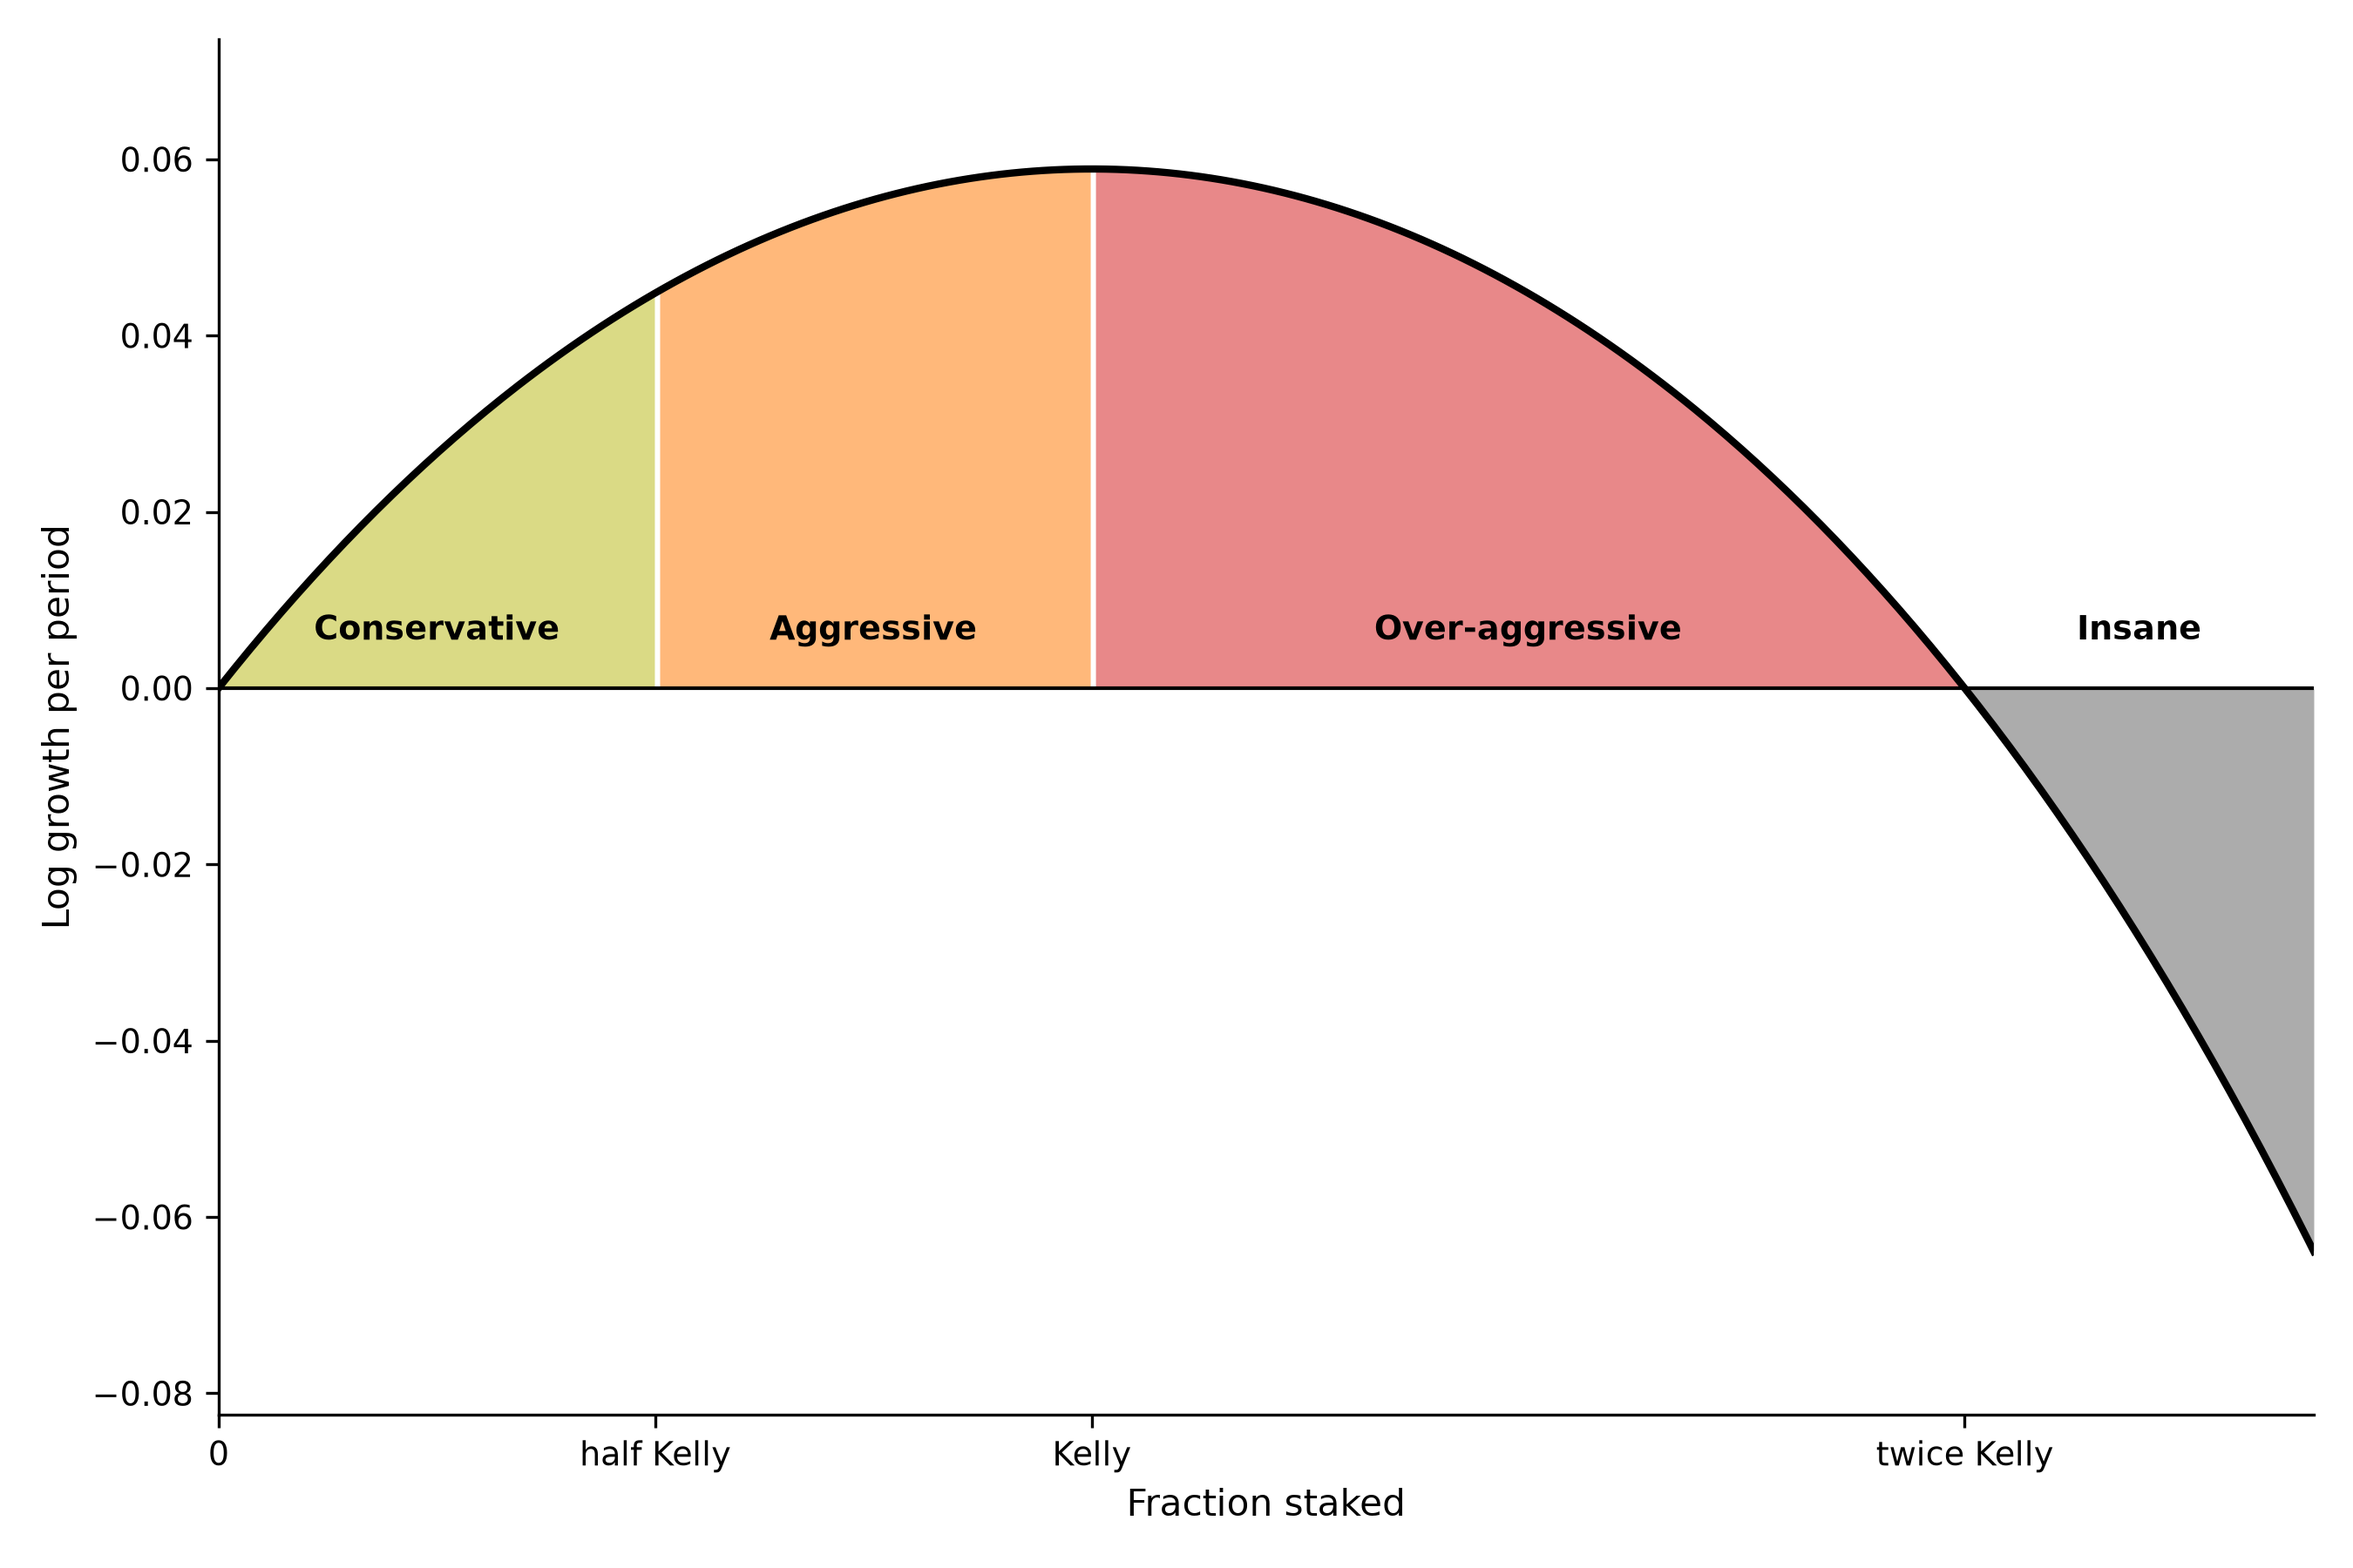
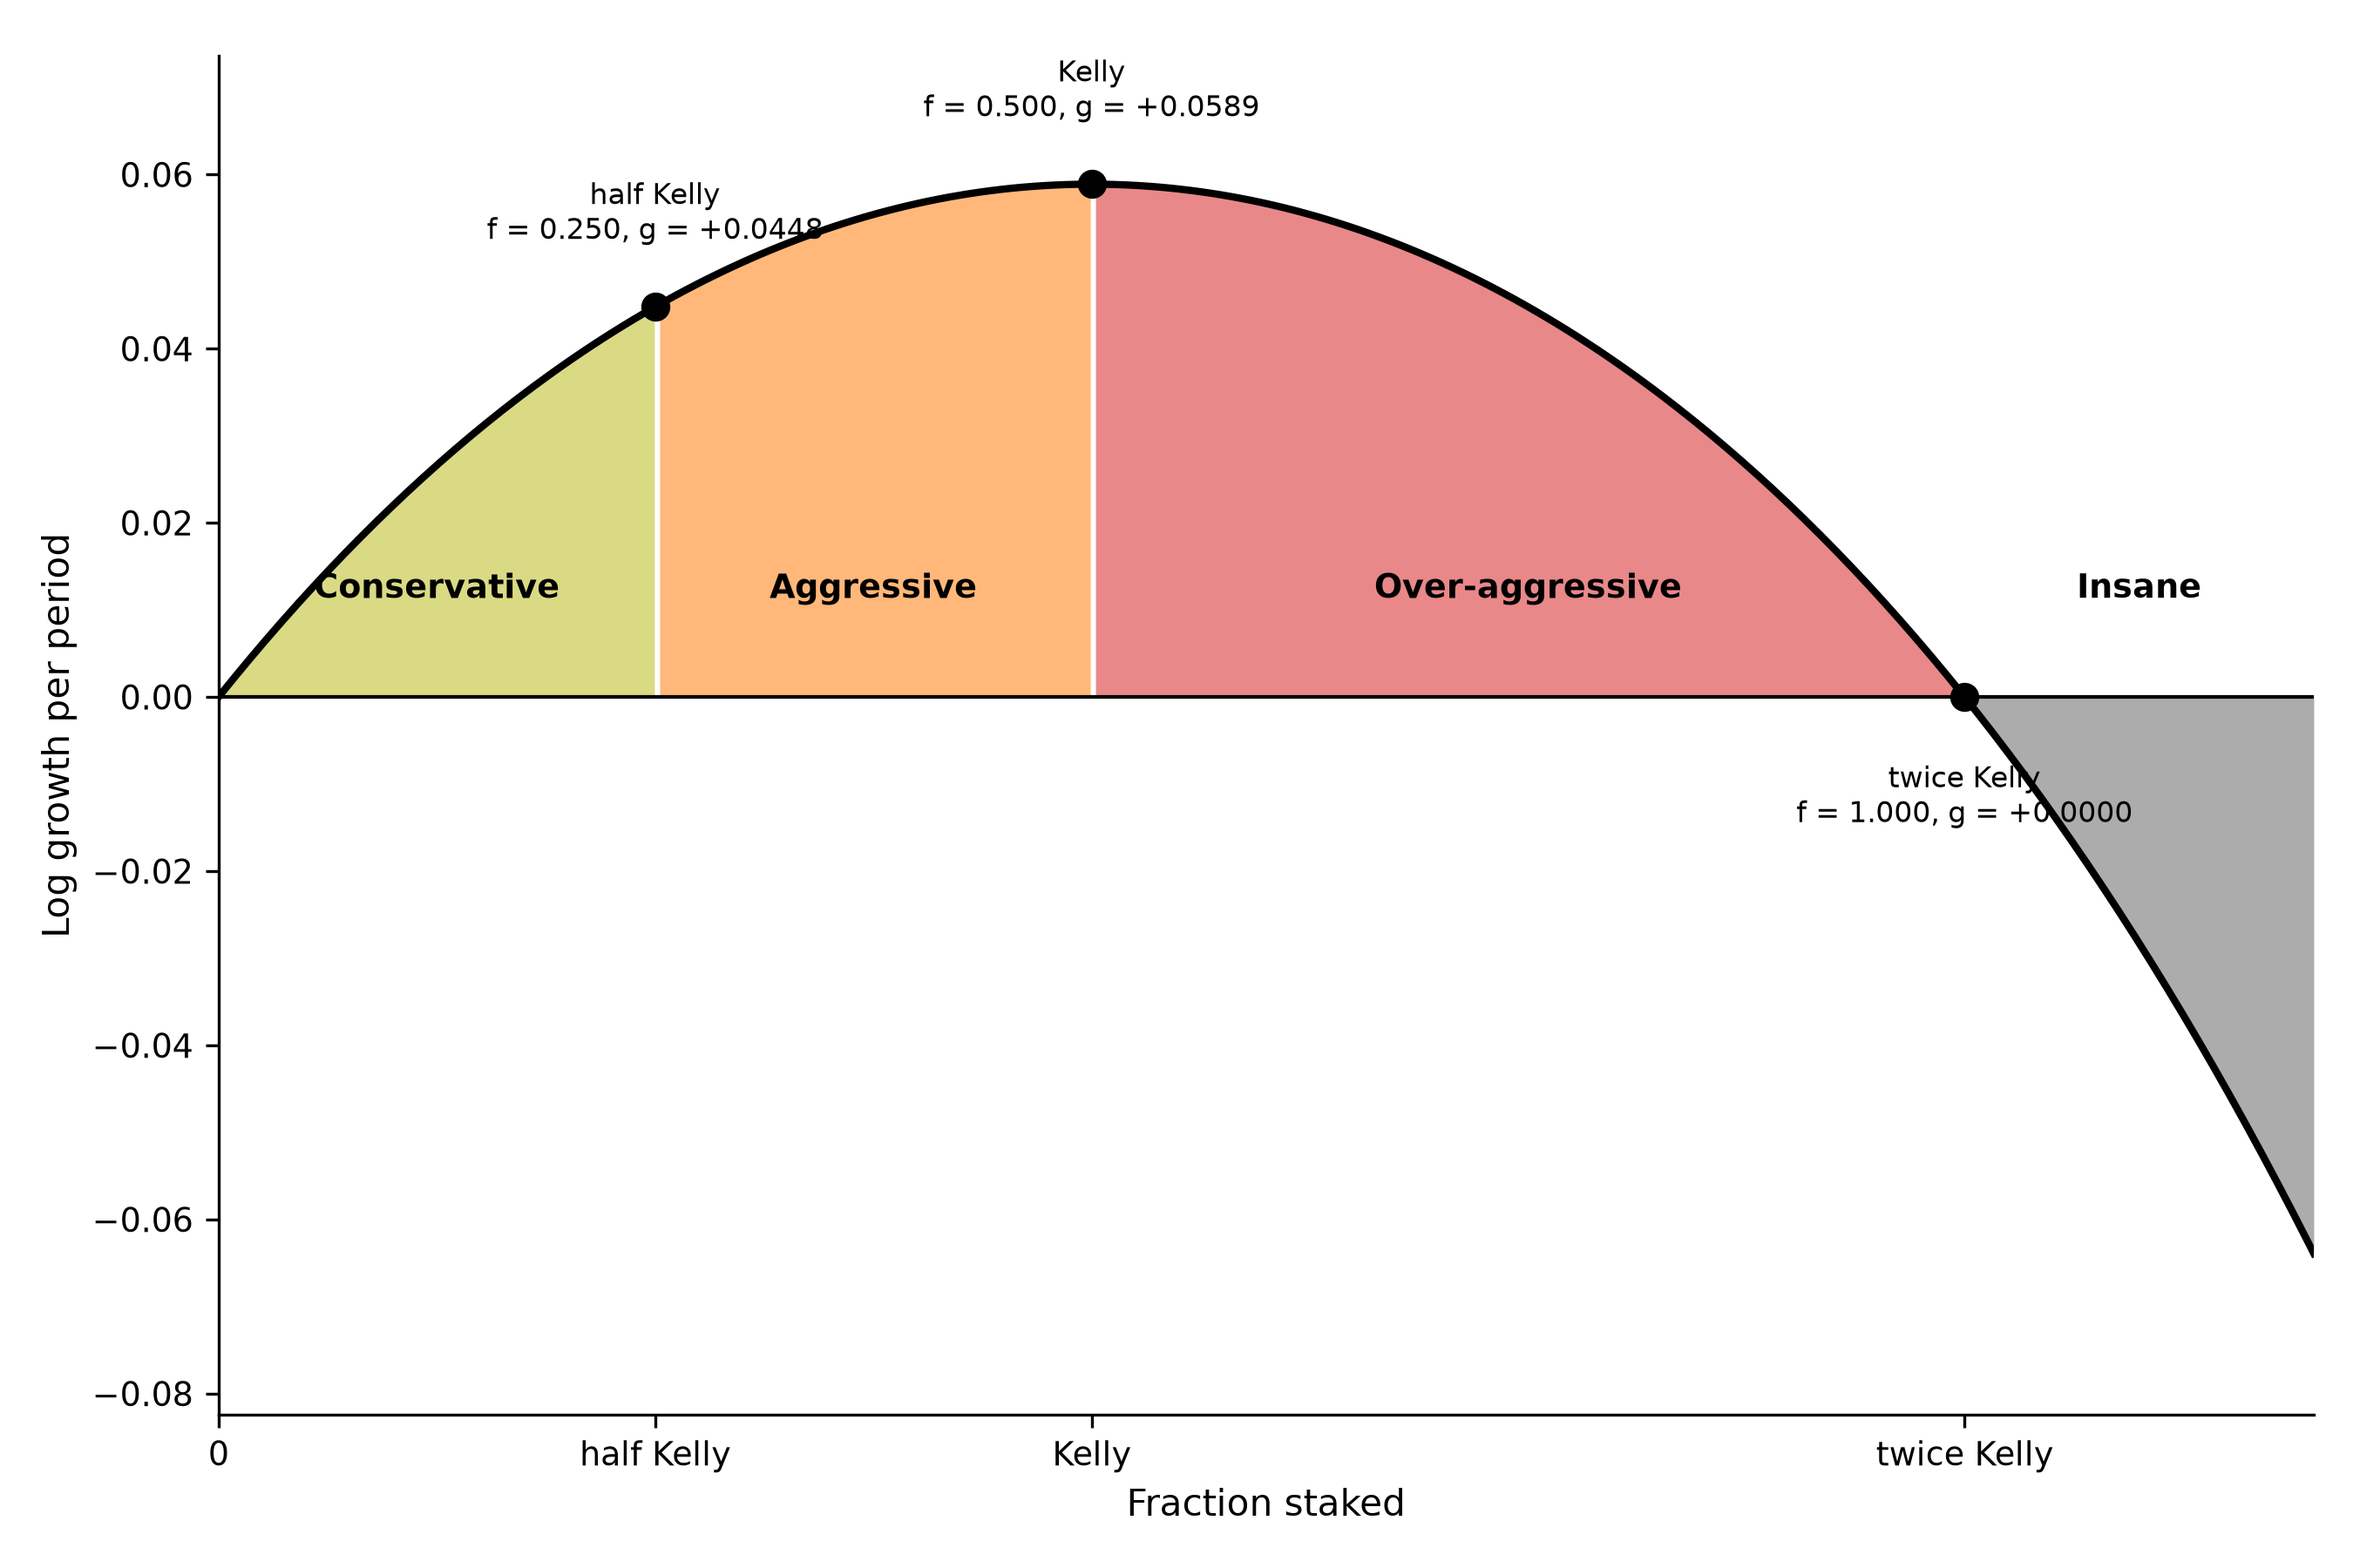
Mark the three Kelly points on the zone chart and fold section 5 into 3.1
The zone chart named the boundaries on the x axis but gave no values. Each of
half Kelly, Kelly and twice Kelly is now a marked point on the curve carrying
its fraction and its growth rate: 0.250 at +0.0448, 0.500 at +0.0589, and 1.000
at +0.0000. The twice Kelly label sits below the axis so it no longer collides
with the Insane zone label.

Section 4.1 explains the two ends the marks reveal. Twice Kelly is the real
ceiling, because the optimum is only where growth stops rising while twice the
optimum is where it changes sign; here that is exactly 1.000, so staking
everything is the boundary. Half Kelly is the other end: it keeps 0.7608 of the
maximum, giving up under a quarter of the growth for half the stake.

Section 5 held the verification of Table 1 but sat four chapters away from it.
Its content moves directly under that table where it belongs, and the chapter is
gone, leaving four chapters.

Claude-Session: https://claude.ai/code/session_012QYDksmpgTZRbhon3qb1cF

diff --git a/Stock/Kelly-Criterion/src/kelly.py b/Stock/Kelly-Criterion/src/kelly.py
@@ -13,7 +13,7 @@ Changelog:
 """
 
 __author__ = 'yRocket'
-__version__ = "0.2.0.2026.8.30"
+__version__ = "0.2.1.2026.8.30"
 
 import argparse
 import enum
@@ -244,10 +244,24 @@ def plot_growth_zones(analyzer: KellyAnalyzer, optimum: float, output_path: path
         inside = (fractions >= left) & (fractions <= right)
         axis.fill_between(fractions[inside], 0.0, growth[inside],
                           color=ZONE_COLOURS[index], alpha=0.55, linewidth=0.0)
-        axis.text(0.5 * (left + right), 0.5 * np.nanmax(growth) * 0.22, ZONE_LABELS[index],
+        axis.text(0.5 * (left + right), 0.5 * np.nanmax(growth) * 0.42, ZONE_LABELS[index],
                   ha='center', va='center', fontsize=font_size, fontweight='bold')
     axis.plot(fractions, growth, color='black', linewidth=2.0)
     axis.axhline(0.0, color='black', linewidth=1.0)
+
+    # Mark the three boundaries on the curve itself, so the reader can read a value off each.
+    # The last mark sits on the zero line, so its label goes below to clear the zone labels.
+    for multiple, label, above in ((0.5, 'half Kelly', True), (1.0, 'Kelly', True),
+                                   (2.0, 'twice Kelly', False)):
+        position = multiple * optimum
+        if position > limit:
+            continue
+        height = float(analyzer.log_growth(position))
+        axis.plot([position], [height], marker='o', markersize=7, color='black', zorder=3)
+        axis.annotate(f"{label}\nf = {position:.3f}, g = {height:+.4f}",
+                      xy=(position, height), xytext=(0.0, 16.0 if above else -18.0),
+                      textcoords='offset points', ha='center',
+                      va='bottom' if above else 'top', fontsize=font_size - 1)
     axis.set_xticks(edges[:-1])
     axis.set_xticklabels(['0', 'half Kelly', 'Kelly', 'twice Kelly'])
     axis.set_xlim(0.0, limit)

diff --git a/Stock/Kelly-Criterion/Kelly_Criterion.md b/Stock/Kelly-Criterion/Kelly_Criterion.md
@@ -1,6 +1,6 @@
 # Kelly Criterion
 
-Rev. 5 | Created: 2026-08-30 | Updated: 2026-08-30 15:48 UTC
+Rev. 6 | Created: 2026-08-30 | Updated: 2026-08-30 15:50 UTC
 
 > **Goal** — 베팅 비중 하나가 장기 성장률을 얼마나 좌우하는지 수치로 확정한다. "적당히 걸어라" 가 아니라 "최적 비중이 얼마이고, 거기서 벗어나면 성장률과 손실 확률이 각각 얼마나 나빠지는가" 를 판단 기준으로 쓸 수 있게 한다.
 >
@@ -73,6 +73,14 @@ Table 1. Growth rate and simulated outcome by fraction
 
 0.375 와 0.625 는 해석해만 계산했고 시뮬레이션 대상이 아니므로 뒤 네 열을 `—` 로 둔다.
 
+이 표의 수치는 서로 독립인 세 방법으로 확인했다.
+
+- Closed form — 2.3 절의 식에 값을 넣어 얻은 $f^{*} = 0.500000$.
+- Numeric search — 같은 성장 함수를 수치 최적화로 최대화해 얻은 $f^{*} = 0.500000$. 닫힌 해와의 차이는 3.33e-16 이다.
+- Monte Carlo — 게임을 실제로 반복해 얻은 기간당 성장률 표본. 그 중앙값이 해석해와 소수점 여섯 자리까지 일치한다.
+
+세 번째가 가장 중요하다. 기대 log 성장률은 정의상 log 자산의 기댓값이지 흔한 결과가 아닌데, 중앙값과 일치한다는 것은 2.2 절의 해석이 맞다는 뜻이다. 기간이 길어질수록 log 자산이 정규분포에 가까워져 평균과 중앙값이 같아지기 때문이며, 4.3 절이 지적한 대로 기간이 짧으면 이 일치는 깨진다.
+
 <img src="Kelly_Criterion_fig/growth_curve.png" width="900" style="max-width: 100%;" alt="Fig 1">
 Fig 1. Expected log growth against bet size, with the simulated medians overlaid
 
@@ -114,7 +122,11 @@ Fig 4. Growth curve split into four zones at half, one and two times the optimum
 - $f^{*}$ 와 $2 f^{*}$ 사이 — 성장률이 떨어지는데 변동성은 계속 커지는 구간. 더 걸어서 잃는다.
 - $2 f^{*}$ 위 — 성장률이 음수인 구간. 이길 확률이 있는 베팅으로 장기적으로 확실히 잃는다.
 
-경계 두 개가 중요하다. $f^{*}$ 는 성장률이 꺾이는 지점이고, $2 f^{*}$ 는 성장률이 0 으로 돌아오는 지점이다. 이 게임에서 $f^{*} = 0.500$ 이므로 $2 f^{*}$ 는 정확히 1.000 이고, Table 1 의 비중 1.000 행이 성장률 +0.000000 인 것이 그 값이다. 전 재산을 거는 것이 곧 "성장률 0" 경계라는 뜻이다.
+Fig 4 에 세 경계를 점으로 찍고 값을 함께 적었다. half Kelly 는 f = 0.250 에서 g = +0.0448, Kelly 는 f = 0.500 에서 g = +0.0589, twice Kelly 는 f = 1.000 에서 g = +0.0000 이다.
+
+이 중 twice Kelly 가 실질적인 상한이다. $f^{*}$ 는 성장률이 꺾이기 시작하는 지점일 뿐이어서 조금 넘겨도 성장률은 여전히 양수이지만, $2 f^{*}$ 를 넘는 순간 부호가 바뀌어 이길 확률이 있는 베팅으로 장기적으로 확실히 잃는다. 이 게임에서 $2 f^{*}$ 는 정확히 1.000 이므로 전 재산을 거는 것이 곧 그 경계이며, Table 1 의 비중 1.000 행이 +0.000000 인 것이 같은 값이다.
+
+half Kelly 는 반대쪽 끝을 보여준다. 성장률이 +0.0448 로 최대값 +0.0589 의 0.7608 배이므로, 비중을 절반으로 줄여도 성장의 4분의 1 미만을 내놓는다.
 
 경계가 $f^{*}$ 와 $2 f^{*}$ 에 오는 것은 이 게임의 우연이 아니다. $g$ 는 $f=0$ 에서 0 이고 위로 볼록하므로, 최대점의 두 배에서 다시 0 을 지난다. 어떤 베팅이든 같은 구조를 갖는다.
 
@@ -131,16 +143,6 @@ Fig 4. Growth curve split into four zones at half, one and two times the optimum
 - 자산 하나와 현금. 여러 자산을 동시에 굴릴 때는 자산 간 correlation 이 들어와 비중이 벡터가 된다.
 - 기간당 결과가 독립이라는 가정. 추세나 평균회귀가 있으면 이 해는 최적이 아니다.
 - 짧은 기간. 2.2 절의 수렴은 기간이 길 때 성립하며, 기간이 짧으면 기대 log 성장률과 실제 경로의 중앙값이 어긋난다.
-
-## 5. Verification
-
-Table 1 의 수치는 서로 독립인 세 방법으로 확인했다.
-
-- Closed form — 2.3 절의 식에 값을 넣어 얻은 $f^{*} = 0.500000$.
-- Numeric search — 같은 성장 함수를 수치 최적화로 최대화해 얻은 $f^{*} = 0.500000$. 닫힌 해와의 차이는 3.33e-16 이다.
-- Monte Carlo — 게임을 실제로 반복해 얻은 기간당 성장률 표본. 그 중앙값이 해석해와 소수점 여섯 자리까지 일치한다.
-
-세 번째가 가장 중요하다. 기대 log 성장률은 정의상 log 자산의 기댓값이지 흔한 결과가 아닌데, 중앙값과 일치한다는 것은 2.2 절의 해석이 맞다는 뜻이다. 기간이 길어질수록 log 자산이 정규분포에 가까워져 평균과 중앙값이 같아지기 때문이며, 4.3 절이 지적한 대로 기간이 짧으면 이 일치는 깨진다.
 
 ## References
 
